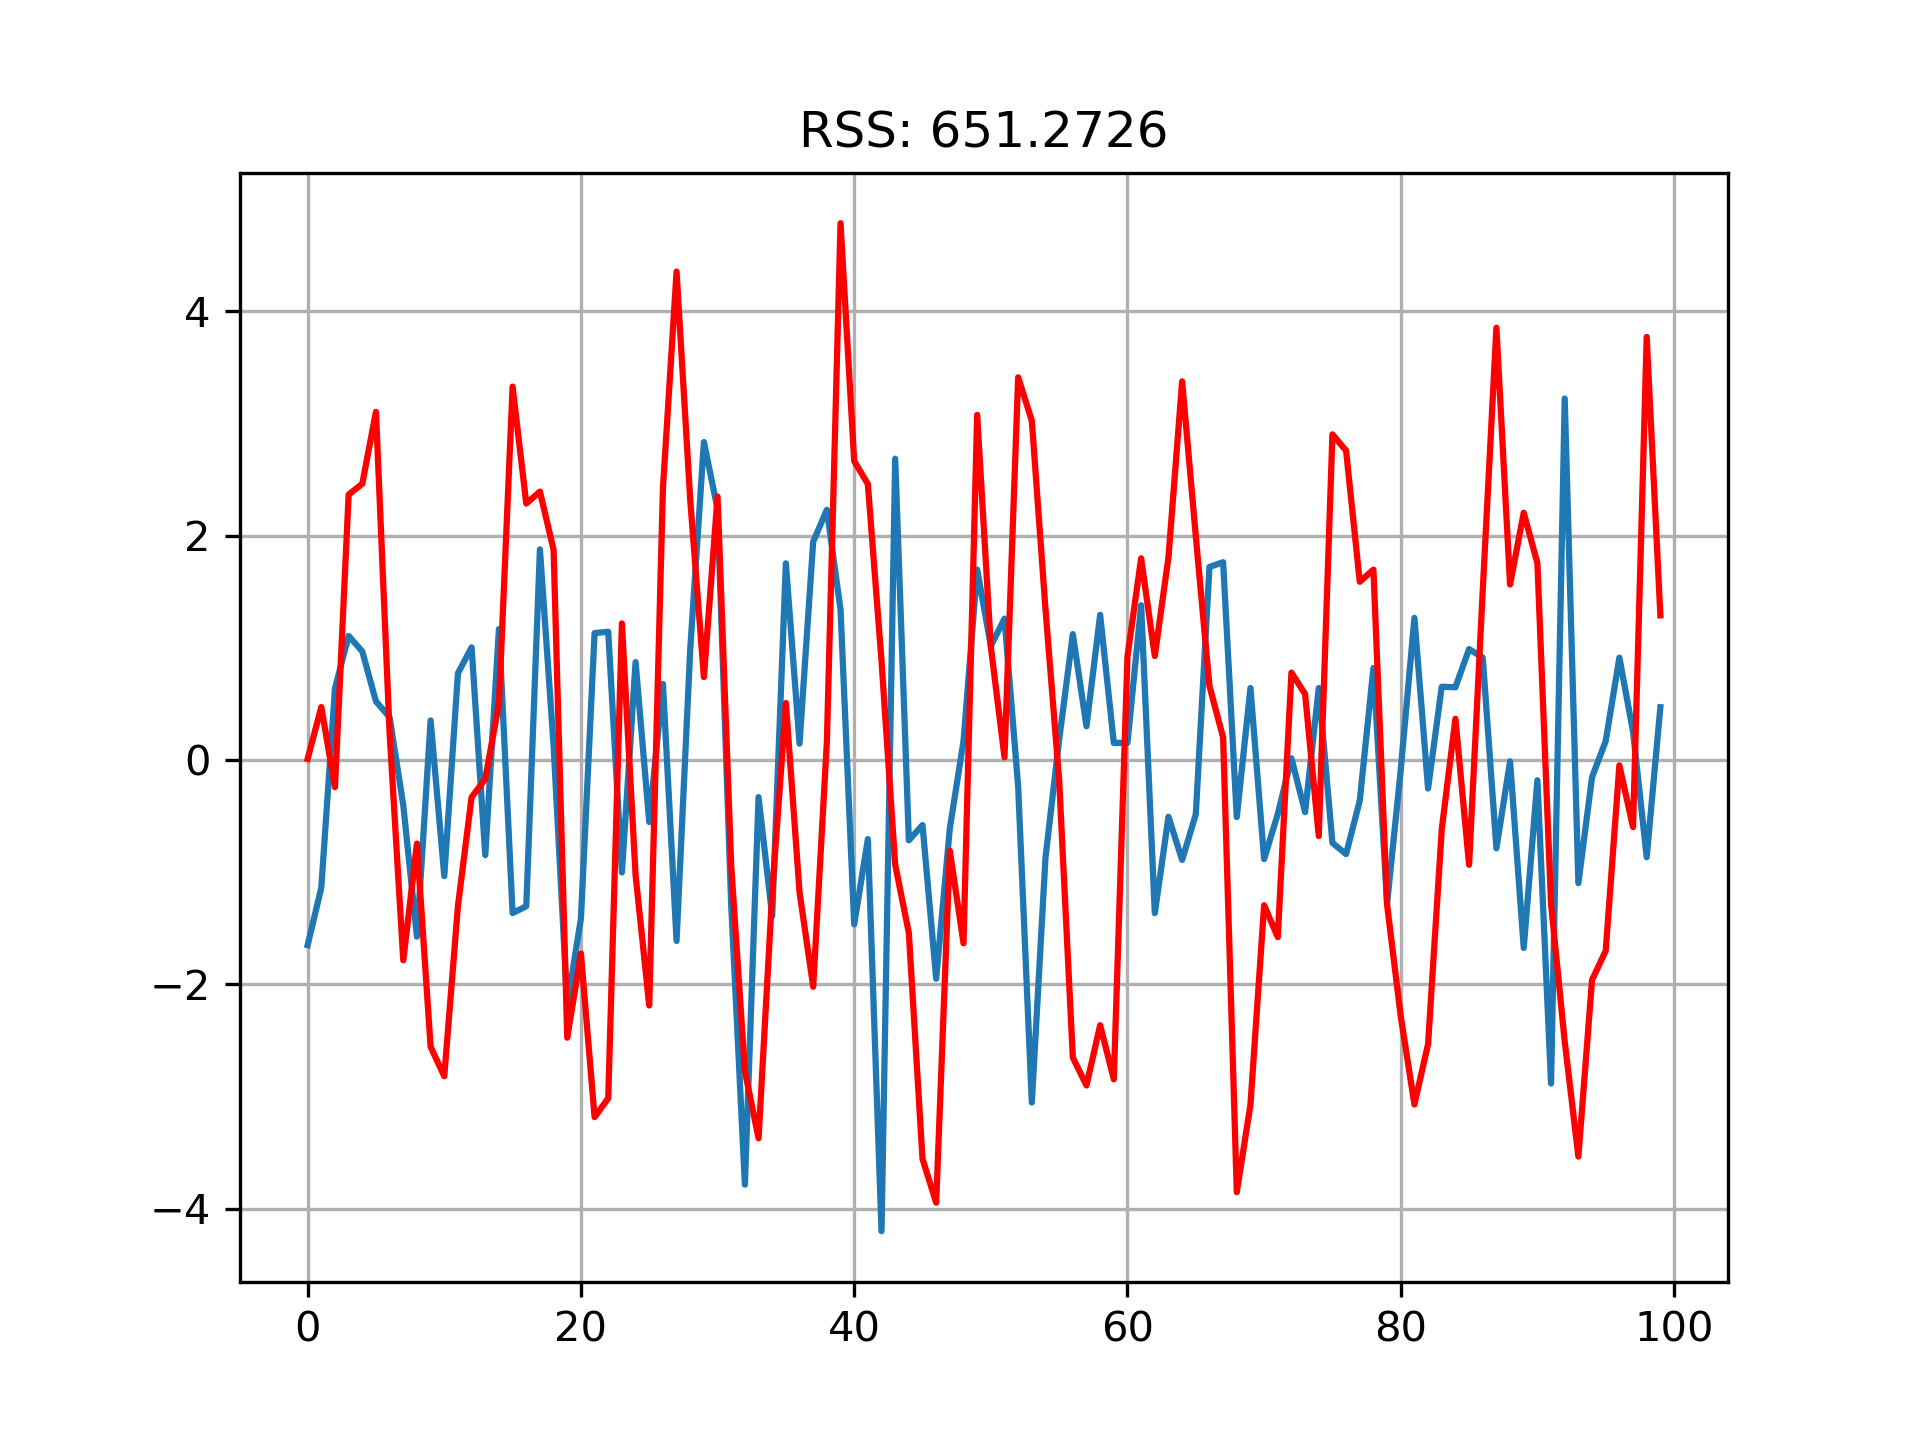
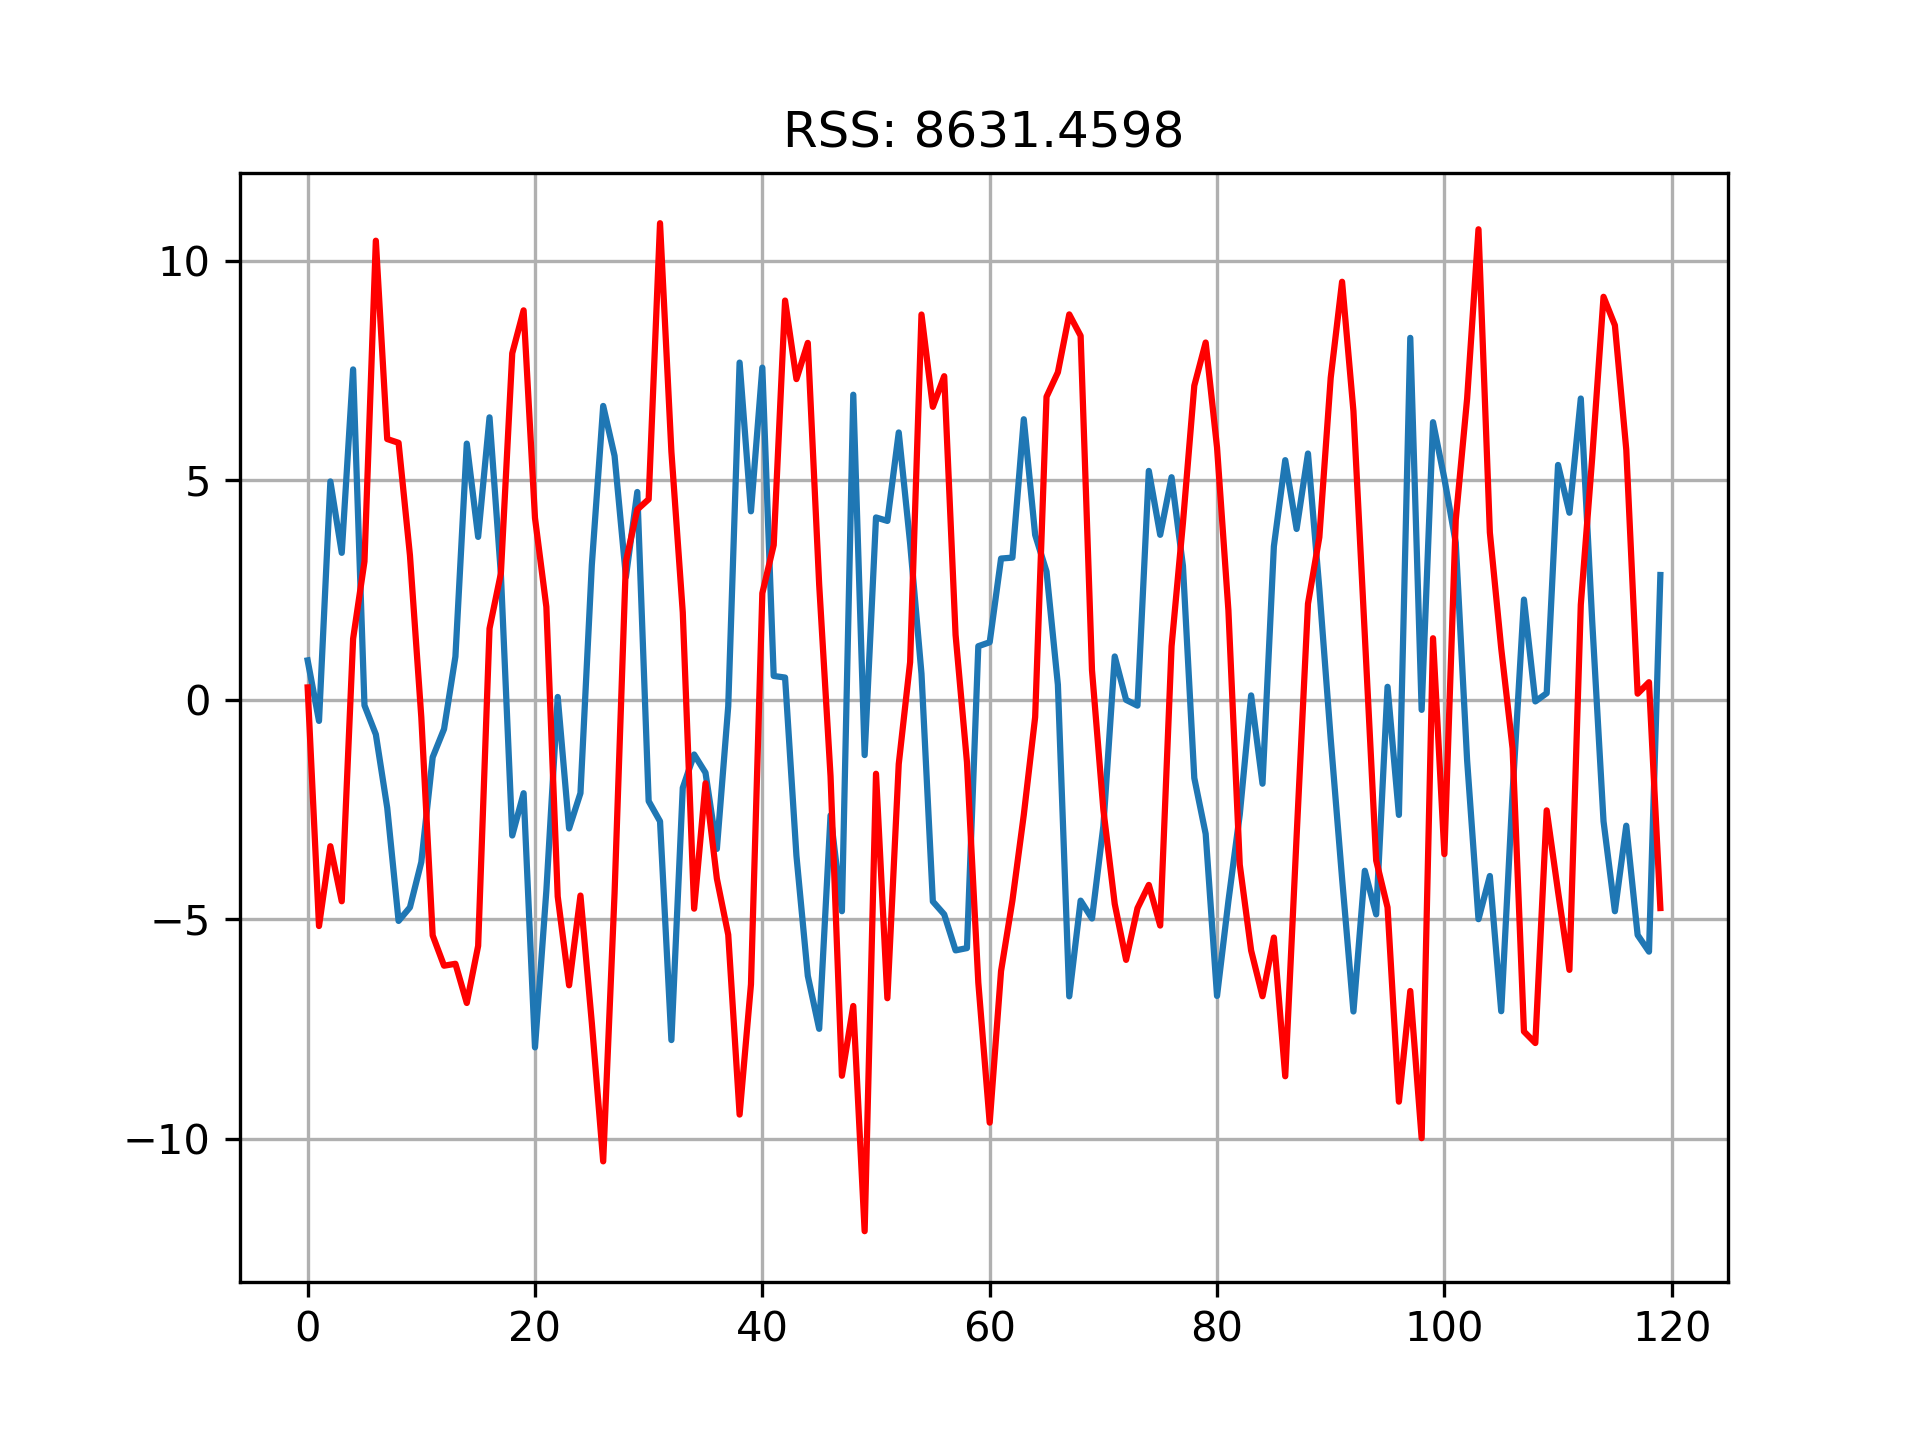
fixed 4.9d

diff --git a/TS/4_9.py b/TS/4_9.py
@@ -9,6 +9,9 @@ from statsmodels.tsa.seasonal import seasonal_decompose
 from statsmodels.tsa.stattools import acf, pacf
 from statsmodels.tsa.arima_model import ARIMA
 
+import warnings
+warnings.filterwarnings("ignore")
+
 try:
     from IPython.display import clear_output
 
@@ -392,16 +395,20 @@ for country in temperature_per_country:
 ### 4.9d
 country = countries[0]
 print("[4.9d] Forecasting for:", country)
-lag_acf = acf(temperature_decompose[country], nlags=20)
-lag_pacf = pacf(temperature_decompose[country], nlags=20, method='ols')
+# Differencing
+temperature_diff = np.diff(temperature_per_country[country])
+temperature_diff = temperature_diff[~np.isnan(temperature_diff)]
+
+lag_acf = acf(temperature_diff, nlags=20)
+lag_pacf = pacf(temperature_diff, nlags=20, method='ols')
 
 # Plot ACF:
 plt.figure(figsize=(15, 6))
 plt.subplot(121)
 plt.plot(lag_acf)
 plt.axhline(y=0, linestyle='--', color='gray')
-plt.axhline(y=-1.96 / np.sqrt(len(temperature_decompose[country])), linestyle='--', color='gray')
-plt.axhline(y=1.96 / np.sqrt(len(temperature_decompose[country])), linestyle='--', color='gray')
+plt.axhline(y=-1.96 / np.sqrt(len(temperature_diff)), linestyle='--', color='gray')
+plt.axhline(y=1.96 / np.sqrt(len(temperature_diff)), linestyle='--', color='gray')
 plt.grid()
 plt.title('Autocorrelation Function')
 
@@ -409,8 +416,8 @@ plt.title('Autocorrelation Function')
 plt.subplot(122)
 plt.plot(lag_pacf)
 plt.axhline(y=0, linestyle='--', color='gray')
-plt.axhline(y=-1.96 / np.sqrt(len(temperature_decompose[country])), linestyle='--', color='gray')
-plt.axhline(y=1.96 / np.sqrt(len(temperature_decompose[country])), linestyle='--', color='gray')
+plt.axhline(y=-1.96 / np.sqrt(len(temperature_diff)), linestyle='--', color='gray')
+plt.axhline(y=1.96 / np.sqrt(len(temperature_diff)), linestyle='--', color='gray')
 plt.grid()
 plt.title('Partial Autocorrelation Function')
 plt.tight_layout()
@@ -419,36 +426,40 @@ plt.savefig("figures/4.9d_(p)acf.png", dpi=300)
 upper_confidence = 1.96 / np.sqrt(len(temperature_decompose[country]))
 p = np.argmax(lag_pacf < upper_confidence)
 q = np.argmax(lag_acf < upper_confidence)
-d = 1
+d = 0
 
 print("[4.9d] p = %i, q = %i" % (p, q))
-npoints = 100 # amount of data points to plot
+npoints = 120 # amount of data points to plot
 
 ## AR model
 plt.figure()
 model = ARIMA(temperature_per_country[country], order=(p, d, 0))
 results_AR = model.fit(disp=-1)
-plt.plot(temperature_decompose[country][0:npoints])
+plt.plot(temperature_diff[0:npoints])
 plt.plot(results_AR.fittedvalues[0:npoints], color='red')
 plt.grid()
-plt.title('RSS: %.4f'% sum((results_AR.fittedvalues[0:npoints]-temperature_decompose[country][0:npoints])**2))
+plt.title('RSS: %.4f'% sum((results_AR.fittedvalues[0:npoints]-temperature_diff[0:npoints])**2))
 plt.savefig("figures/4.9d_ar.png", dpi=300)
 
 ## MA model
 plt.clf()
 model = ARIMA(temperature_per_country[country], order=(0, d, q))
 results_MA = model.fit(disp=-1)
-plt.plot(temperature_decompose[country][0:npoints])
+plt.plot(temperature_diff[0:npoints])
 plt.plot(results_MA.fittedvalues[0:npoints], color='red')
 plt.grid()
-plt.title('RSS: %.4f'% sum((results_MA.fittedvalues[0:npoints]-temperature_decompose[country][0:npoints])**2))
+plt.title('RSS: %.4f'% sum((results_MA.fittedvalues[0:npoints]-temperature_diff[0:npoints])**2))
 plt.savefig("figures/4.9d_ma.png", dpi=300)
 
 ## Combined model
-model = ARIMA(temperature_per_country[country], order=(p, d, q))
-results_ARIMA = model.fit(disp=-1)
-plt.plot(temperature_decompose[country][0:npoints])
-plt.grid()
-plt.plot(results_ARIMA.fittedvalues[0:npoints], color='red')
-plt.title('RSS: %.4f'% sum((results_ARIMA.fittedvalues[0:npoints]-temperature_decompose[country][0:npoints])**2))
-plt.savefig("figures/4.9d_arma.png", dpi=300)
+plt.clf()
+try:
+    model = ARIMA(temperature_per_country[country], order=(p, d, q))
+    results_ARIMA = model.fit(disp=-1)
+    plt.plot(temperature_diff[0:npoints])
+    plt.plot(results_ARIMA.fittedvalues[0:npoints], color='red')
+    plt.grid()
+    plt.title('RSS: %.4f' % sum((results_ARIMA.fittedvalues[0:npoints] - temperature_diff[0:npoints]) ** 2))
+    plt.savefig("figures/4.9d_arma.png", dpi=300)
+except:
+    print("Could not create ARIMA model")
